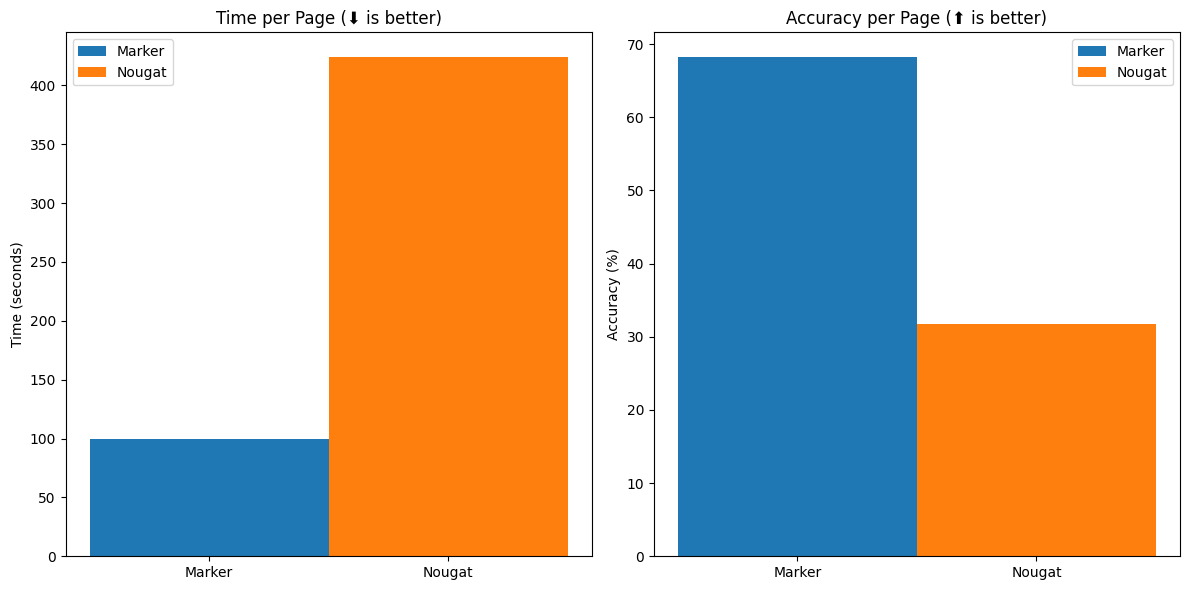
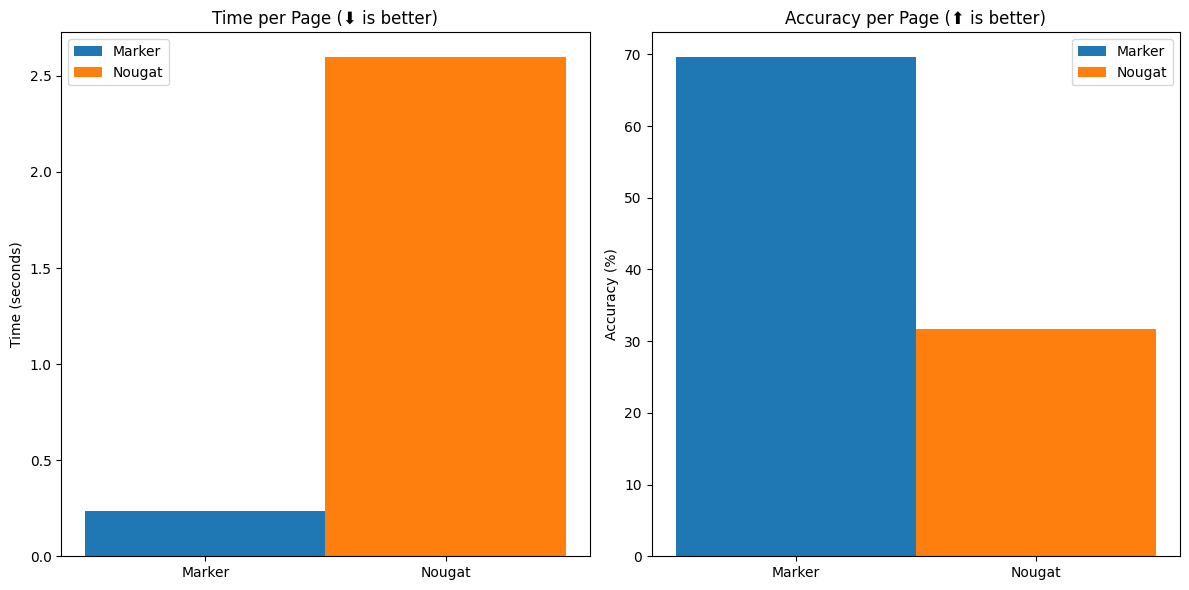
Force utf8

diff --git a/marker_server.py b/marker_server.py
@@ -18,6 +18,7 @@ import io
 from fastapi import FastAPI, Form, File, UploadFile
 from marker.converters.pdf import PdfConverter
 from marker.models import create_model_dict
+from marker.settings import settings
 
 app_data = {}
 
@@ -110,7 +111,7 @@ async def _convert_pdf(params: CommonParams):
     for k, v in images.items():
         byte_stream = io.BytesIO()
         v.save(byte_stream, format="PNG")
-        encoded[k] = base64.b64encode(byte_stream.getvalue()).decode("utf-8")
+        encoded[k] = base64.b64encode(byte_stream.getvalue()).decode(settings.OUTPUT_ENCODING)
 
     return {
         "format": params.output_format,
@@ -140,7 +141,7 @@ async def convert_pdf_upload(
     ),
 ):
     upload_path = os.path.join(UPLOAD_DIRECTORY, file.filename)
-    with open(upload_path, "wb") as upload_file:
+    with open(upload_path, "wb", encoding=settings.OUTPUT_ENCODING) as upload_file:
         file_contents = await file.read()
         upload_file.write(file_contents)
 

diff --git a/marker/output.py b/marker/output.py
@@ -6,6 +6,7 @@ from pydantic import BaseModel
 from marker.renderers.html import HTMLOutput
 from marker.renderers.json import JSONOutput
 from marker.renderers.markdown import MarkdownOutput
+from marker.settings import settings
 
 
 def output_exists(output_dir: str, fname_base: str):
@@ -30,9 +31,9 @@ def text_from_rendered(rendered: BaseModel):
 def save_output(rendered: BaseModel, output_dir: str, fname_base: str):
     text, ext, images = text_from_rendered(rendered)
 
-    with open(os.path.join(output_dir, f"{fname_base}.{ext}"), "w+") as f:
+    with open(os.path.join(output_dir, f"{fname_base}.{ext}"), "w+", encoding=settings.OUTPUT_ENCODING) as f:
         f.write(text)
-    with open(os.path.join(output_dir, f"{fname_base}_meta.json"), "w+") as f:
+    with open(os.path.join(output_dir, f"{fname_base}_meta.json"), "w+", encoding=settings.OUTPUT_ENCODING) as f:
         f.write(json.dumps(rendered.metadata, indent=2))
 
     for img_name, img in images.items():

diff --git a/marker/config/parser.py b/marker/config/parser.py
@@ -32,6 +32,7 @@ class ConfigParser:
                           help="Path to JSON file with additional configuration.")(fn)
         fn = click.option("--languages", type=str, default=None, help="Comma separated list of languages to use for OCR.")(fn)
         fn = click.option("--disable_multiprocessing", is_flag=True, default=False, help="Disable multiprocessing.")(fn)
+        fn = click.option("--paginate_output", is_flag=True, default=False, help="Paginate output.")(fn)
         return fn
 
     def generate_config_dict(self) -> Dict[str, any]:
@@ -61,6 +62,9 @@ class ConfigParser:
                 case "disable_multiprocessing":
                     if v:
                         config["pdftext_workers"] = 1
+                case "paginate_output":
+                    if v:
+                        config["paginate_output"] = True
         return config
 
     def get_renderer(self):

diff --git a/benchmarks/overall.py b/benchmarks/overall.py
@@ -16,6 +16,8 @@ import os
 import subprocess
 import shutil
 from tabulate import tabulate
+
+from marker.settings import settings
 from scoring import score_text
 
 configure_logging()
@@ -53,7 +55,7 @@ def main(in_folder: str, reference_folder: str, out_file: str, nougat: bool, md_
         md_filename = fname.rsplit(".", 1)[0] + ".md"
 
         reference_filename = os.path.join(reference_folder, md_filename)
-        with open(reference_filename, "r", encoding="utf-8") as f:
+        with open(reference_filename, "r", encoding=settings.OUTPUT_ENCODING) as f:
             reference = f.read()
 
         pdf_filename = os.path.join(in_folder, fname)

diff --git a/marker/renderers/__init__.py b/marker/renderers/__init__.py
@@ -9,6 +9,7 @@ from pydantic import BaseModel
 
 from marker.schema import BlockTypes
 from marker.schema.blocks.base import BlockOutput, BlockId
+from marker.settings import settings
 from marker.util import assign_config
 
 
@@ -33,7 +34,7 @@ class BaseRenderer:
         if to_base64:
             image_buffer = io.BytesIO()
             cropped.save(image_buffer, format='PNG')
-            cropped = base64.b64encode(image_buffer.getvalue()).decode('utf-8')
+            cropped = base64.b64encode(image_buffer.getvalue()).decode(settings.OUTPUT_ENCODING)
         return cropped
 
     @staticmethod

diff --git a/marker_app.py b/marker_app.py
@@ -122,7 +122,7 @@ if not run_marker:
     st.stop()
 
 # Run Marker
-with tempfile.NamedTemporaryFile(suffix=".pdf") as temp_pdf:
+with tempfile.NamedTemporaryFile(suffix=".pdf", encoding=settings.OUTPUT_ENCODING) as temp_pdf:
     temp_pdf.write(in_file.getvalue())
     temp_pdf.seek(0)
     filename = temp_pdf.name
